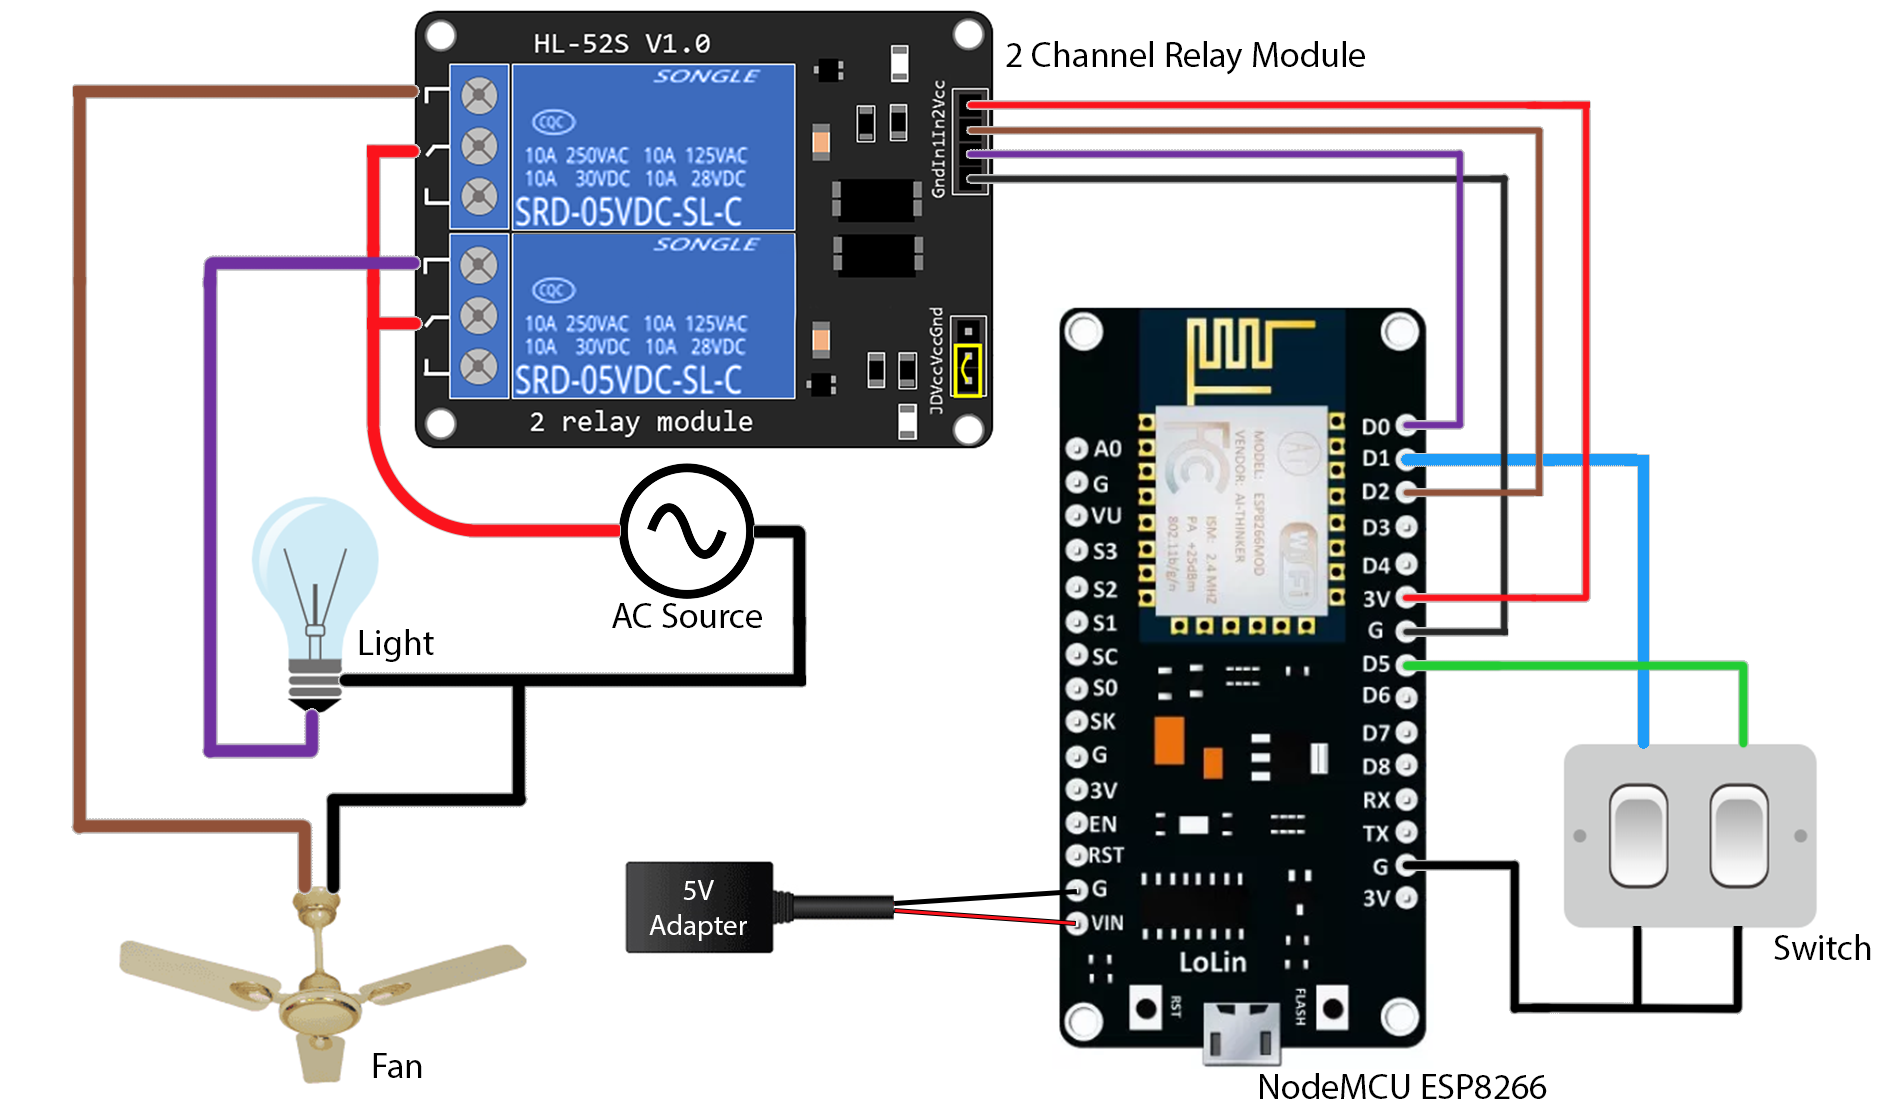
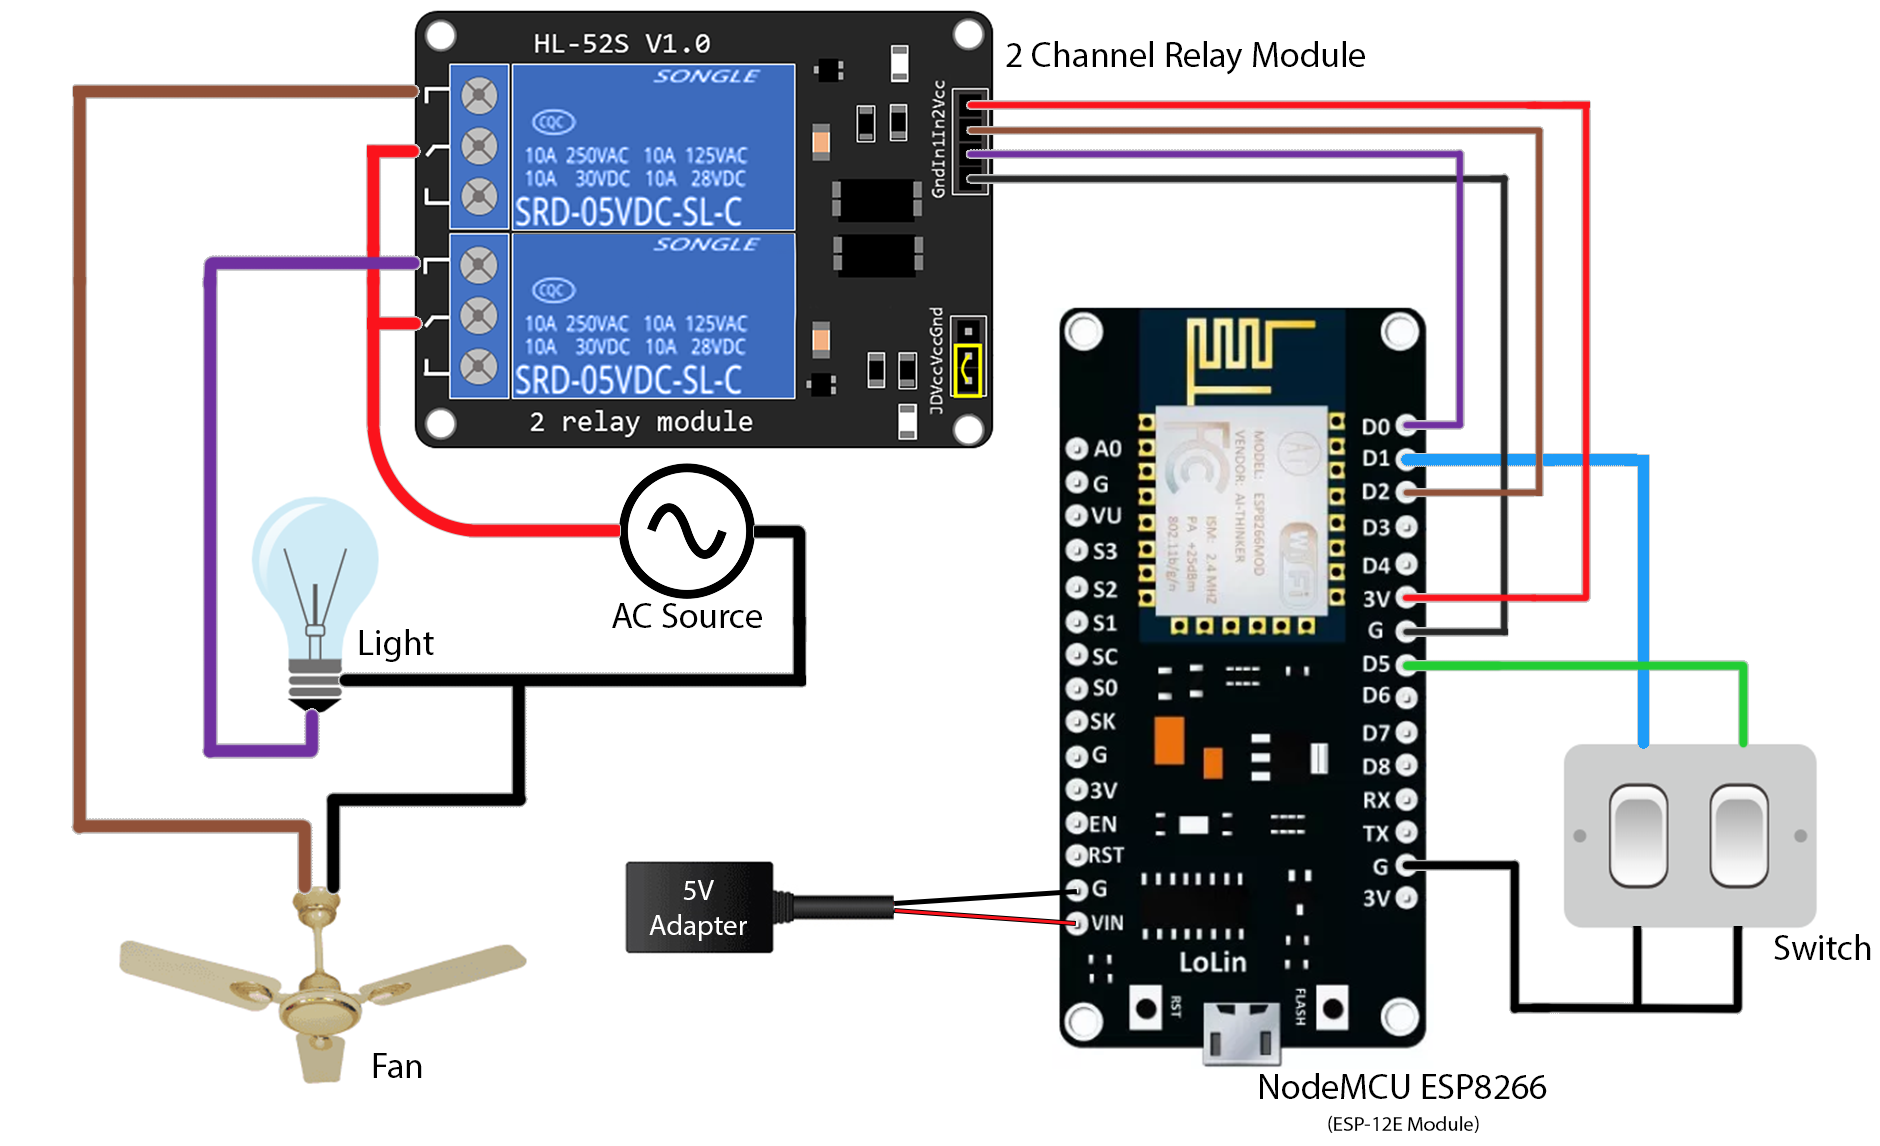
module name added

diff --git a/README.md b/README.md
@@ -1,6 +1,6 @@
-# IoT Home Automation Project with NodeMCU ESP8266
+# IoT Home Automation Project with NodeMCU ESP8266 (ESP-12E Module)
     
-<p>Welcome to the official GitHub repository for the IoT Fan and Light Control project. This project harnesses advanced technology, utilizing the NodeMCU ESP8266 and a relay module to exert precise control over a room's lighting and ceiling fan. The project's control interface is conveniently accessible through a responsive web application (Web App), providing users with seamless management of their environment.</p>
+<p>Welcome to the official GitHub repository for the IoT Fan and Light Control project. This project harnesses advanced technology, utilizing the NodeMCU ESP8266 (ESP-12E Module) and a relay module to exert precise control over a room's lighting and ceiling fan. The project's control interface is conveniently accessible through a responsive web application (Web App), providing users with seamless management of their environment.</p>
 
 <p>What sets this project apart is its integration with the Blynk cloud platform, which not only stores device state data but also empowers users with remote control capabilities from anywhere in the world. Whether you're at home or halfway around the globe, you can effortlessly manage your fan and light settings through the intuitive Web App.</p>
 
@@ -10,7 +10,7 @@
 <ul>
     <li>Control fan and light remotely through a web interface.</li>
     <li>Seamless integration with Google Assistant for voice control.</li>
-    <li>Utilizes the NodeMCU ESP8266 and relay module for IoT functionality.</li>
+    <li>Utilizes the NodeMCU ESP8266 (ESP-12E Module) and relay module for IoT functionality.</li>
     <li>Real-time status updates using Blynk cloud for on/off state.</li>
     <li>Easy-to-understand code for both the ESP8266 and the web interface.</li>
     <li>Web application built with VoltBuilder.</li>
@@ -19,7 +19,7 @@
 
 <h2>Project Components</h2>
 <ul>
-    <li>NodeMCU ESP8266</li>
+    <li>NodeMCU ESP8266 (ESP-12E Module)</li>
     <li>Relay Module</li>
     <li>Web App for control</li>
     <li>Blynk Cloud integration</li>
@@ -27,9 +27,9 @@
 
 <h2>Getting Started</h2>
 <ol>
-    <li><strong>Hardware Setup</strong>: Begin by establishing the hardware configuration. Connect the NodeMCU ESP8266 to the relay module and the fan/light as shown in the diagram below</li>
+    <li><strong>Hardware Setup</strong>: Begin by establishing the hardware configuration. Connect the NodeMCU ESP8266 (ESP-12E Module) to the relay module and the fan/light as shown in the diagram below</li>
     <li><strong>Blynk Cloud Setup</strong>: Proceed to set up your Blynk Cloud account by visiting the official <a href="https://www.blynk.io/" target="_blank">Blynk</a> website. Create your account, establish your IoT template and project, and then generate your unique Blynk Automation Token.</li>
-    <li><strong>ESP8266 Code Configuration</strong>: Access the ESP8266 code, situated within the <code>/esp8266_code</code> directory. Within this code, replace the Blynk Automation Token with your uniquely generated token, and additionally, provide the SSID and Password of your wireless router. Once this code customization is complete, proceed to upload the modified code to your NodeMCU ESP8266 utilizing the Arduino IDE.</li>
+    <li><strong>NodeMCU Code Configuration</strong>: Access the NodeMCU (ESP-12E Module) code, situated within the <code>/nodemcu_code</code> directory. Within this code, replace the Blynk Automation Token with your uniquely generated token, and additionally, provide the SSID and Password of your wireless router. Once this code customization is complete, proceed to upload the modified code to your NodeMCU 1.0 (ESP-12E Module) utilizing the Arduino IDE.</li>
     <li><strong>Web App</strong>: For the web application component, upload the provided web app code found in the <code>/web_app_code</code> directory to VoltBuilder. This process will convert the web interface into a native application. Ensure you provide your Blynk Automation Token within the Blynk API in the JavaScript code during this step.</li>
 </ol>
 
@@ -38,7 +38,7 @@
 
 <h2>Code Structure</h2>
 <ul>
-    <li><code>/esp8266_code</code>: Contains the Arduino sketch for the NodeMCU ESP8266.</li>
+    <li><code>/nodemcu_code</code>: Contains the Arduino sketch for the NodeMCU 1.0 (ESP-12E Module).</li>
     <li><code>/web_app_code</code>: Includes the HTML, CSS, and JavaScript files for the web App.</li>
 </ul>
 
